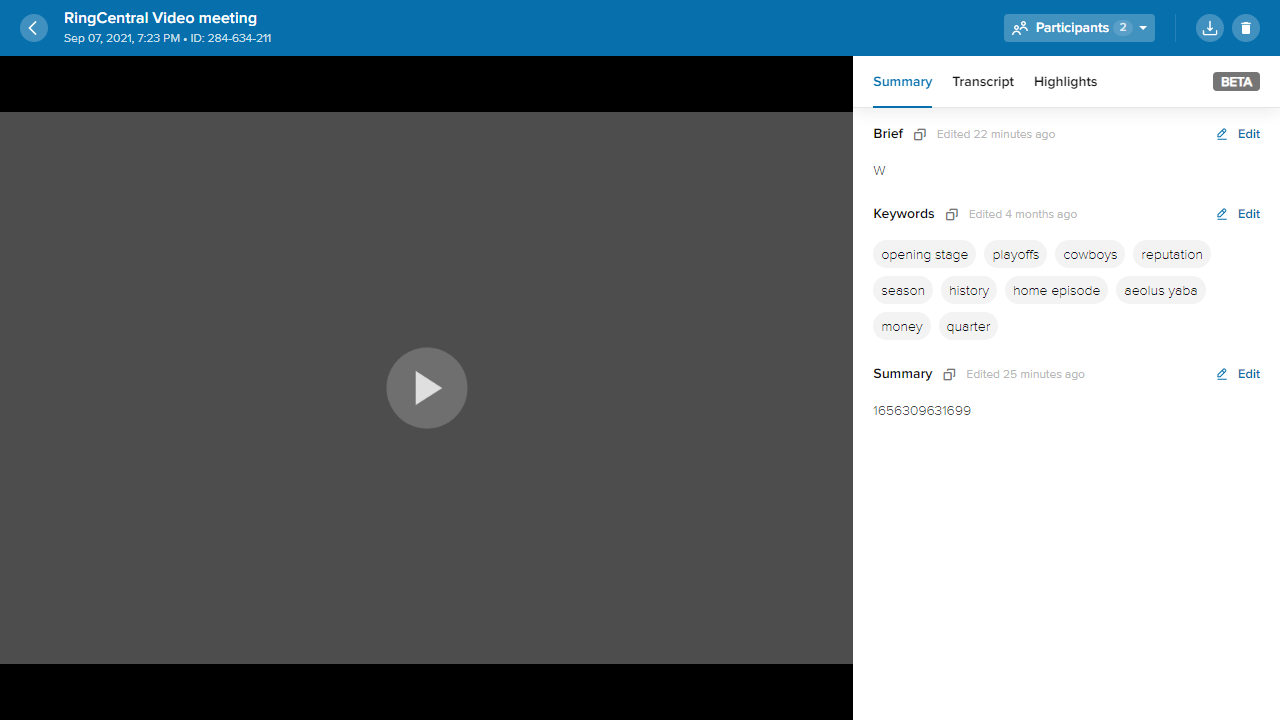
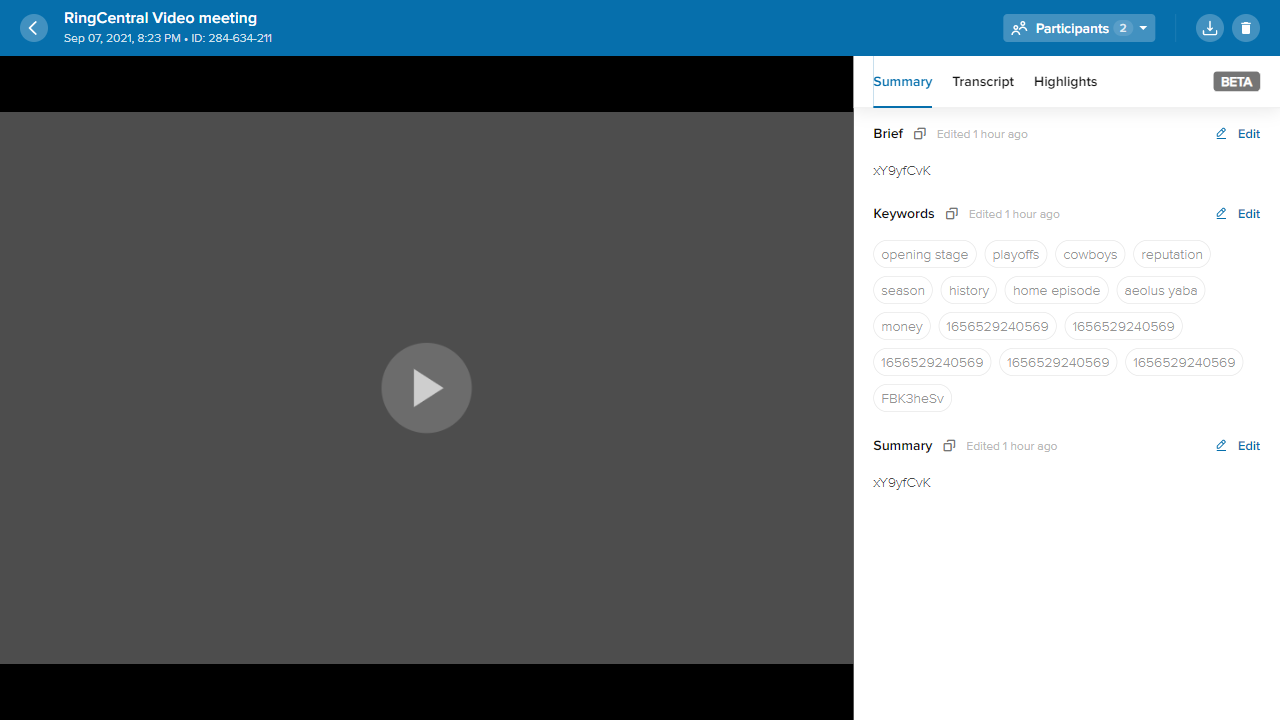
post-meeting-page-full-material.js ready for testing

diff --git a/utils/text-for-input.js b/utils/text-for-input.js
@@ -1,6 +1,8 @@
+import randomstring from "randomstring";
 
 export default {
   longSummaryText10001: "When writing a summary, remember that it should be in the form of a paragraph. A summary begins with an introductory sentence that states the text's title, author and main point of the text as you see it. A summary is written in your own words. A summary contains only the ideas of the original text.When writing a summary, remember that it should be in the form of a paragraph. A summary begins with an introductory sentence that states the text's title, author and main point of the text as you see it. A summary is written in your own words. A summary contains only the ideas of the original text.When writing a summary, remember that it should be in the form of a paragraph. A summary begins with an introductory sentence that states the text's title, author and main point of the text as you see it. A summary is written in your own words. A summary contains only the ideas of the original text.When writing a summary, remember that it should be in the form of a paragraph. A summary begins with an introductory sentence that states the text's title, author and main point of the text as you see it. A summary is written in your own words. A summary contains only the ideas of the original text.When writing a summary, remember that it should be in the form of a paragraph. A summary begins with an introductory sentence that states the text's title, author and main point of the text as you see it. A summary is written in your own words. A summary contains only the ideas of the original text.When writing a summary, remember that it should be in the form of a paragraph. A summary begins with an introductory sentence that states the text's title, author and main point of the text as you see it. A summary is written in your own words. A summary contains only the ideas of the original text.When writing a summary, remember that it should be in the form of a paragraph. A summary begins with an introductory sentence that states the text's title, author and main point of the text as you see it. A summary is written in your own words. A summary contains only the ideas of the original text.When writing a summary, remember that it should be in the form of a paragraph. A summary begins with an introductory sentence that states the text's title, author and main point of the text as you see it. A summary is written in your own words. A summary contains only the ideas of the original text.When writing a summary, remember that it should be in the form of a paragraph. A summary begins with an introductory sentence that states the text's title, author and main point of the text as you see it. A summary is written in your own words. A summary contains only the ideas of the original text.When writing a summary, remember that it should be in the form of a paragraph. A summary begins with an introductory sentence that states the text's title, author and main point of the text as you see it. A summary is written in your own words. A summary contains only the ideas of the original text.When writing a summary, remember that it should be in the form of a paragraph. A summary begins with an introductory sentence that states the text's title, author and main point of the text as you see it. A summary is written in your own words. A summary contains only the ideas of the original text.When writing a summary, remember that it should be in the form of a paragraph. A summary begins with an introductory sentence that states the text's title, author and main point of the text as you see it. A summary is written in your own words. A summary contains only the ideas of the original text.When writing a summary, remember that it should be in the form of a paragraph. A summary begins with an introductory sentence that states the text's title, author and main point of the text as you see it. A summary is written in your own words. A summary contains only the ideas of the original text.When writing a summary, remember that it should be in the form of a paragraph. A summary begins with an introductory sentence that states the text's title, author and main point of the text as you see it. A summary is written in your own words. A summary contains only the ideas of the original text.When writing a summary, remember that it should be in the form of a paragraph. A summary begins with an introductory sentence that states the text's title, author and main point of the text as you see it. A summary is written in your own words. A summary contains only the ideas of the original text.When writing a summary, remember that it should be in the form of a paragraph. A summary begins with an introductory sentence that states the text's title, author and main point of the text as you see it. A summary is written in your own words. A summary contains only the ideas of the original text.When writing a summary, remember that it should be in the form of a paragraph. A summary begins with an introductory sentence that states the text's title, author and main point of the text as you see it. A summary is written in your own words. A summary contains only the ideas of the original text.When writing a summary, remember that it should be in the form of a paragraph. A summary begins with an introductory sentence that states the text's title, author and main point of the text as you see it. A summary is written in your own words. A summary contains only the ideas of the original text.When writing a summary, remember that it should be in the form of a paragraph. A summary begins with an introductory sentence that states the text's title, author and main point of the text as you see it. A summary is written in your own words. A summary contains only the ideas of the original text.When writing a summary, remember that it should be in the form of a paragraph. A summary begins with an introductory sentence that states the text's title, author and main point of the text as you see it. A summary is written in your own words. A summary contains only the ideas of the original text.When writing a summary, remember that it should be in the form of a paragraph. A summary begins with an introductory sentence that states the text's title, author and main point of the text as you see it. A summary is written in your own words. A summary contains only the ideas of the original text.When writing a summary, remember that it should be in the form of a paragraph. A summary begins with an introductory sentence that states the text's title, author and main point of the text as you see it. A summary is written in your own words. A summary contains only the ideas of the original text.When writing a summary, remember that it should be in the form of a paragraph. A summary begins with an introductory sentence that states the text's title, author and main point of the text as you see it. A summary is written in your own words. A summary contains only the ideas of the original text.When writing a summary, remember that it should be in the form of a paragraph. A summary begins with an introductory sentence that states the text's title, author and main point of the text as you see it. A summary is written in your own words. A summary contains only the ideas of the original text.When writing a summary, remember that it should be in the form of a paragraph. A summary begins with an introductory sentence that states the text's title, author and main point of the text as you see it. A summary is written in your own words. A summary contains only the ideas of the original text.When writing a summary, remember that it should be in the form of a paragraph. A summary begins with an introductory sentence that states the text's title, author and main point of the text as you see it. A summary is written in your own words. A summary contains only the ideas of the original text.When writing a summary, remember that it should be in the form of a paragraph. A summary begins with an introductory sentence that states the text's title, author and main point of the text as you see it. A summary is written in your own words. A summary contains only the ideas of the original text.When writing a summary, remember that it should be in the form of a paragraph. A summary begins with an introductory sentence that states the text's title, author and main point of the text as you see it. A summary is written in your own words. A summary contains only the ideas of the original text.When writing a summary, remember that it should be in the form of a paragraph. A summary begins with an introductory sentence that states the text's title, author and main point of the text as you see it. A summary is written in your own words. A summary contains only the ideas of the original text.When writing a summary, remember that it should be in the form of a paragraph. A summary begins with an introductory sentence that states the text's title, author and main point of the text as you see it. A summary is written in your own words. A summary contains only the ideas of the original text.When writing a summary, remember that it should be in the form of a paragraph. A summary begins with an introductory sentence that states the text's title, author and main point of the text as you see it. A summary is written in your own words. A summary contains only the ideas of the original text.When writing a summary, remember that it should be in the form of a paragraph. A summary begins with an introductory sentence that states the text's title, author and main point of the text as you see it. A summary is written in your own words. A summary contains only the ideas of the original text.When writing a summary, remember that it should be in the form of a paragraph. A summary begins with an introductory sentence that states the text's title, author and main point of the text as you see it. A summary is written in your own words. A summary contains only the ideas of the original text.When writing a summary, remember that it should be in the form of a paragraph. A summary begins with.",
   briefSummaryText201: "When writing a summary, remember that it should be in the form of a paragraph. A summary begins with an introductory sentence that states the text's title, author and main point of the text as you see.",
-  newString: `${new Date().getTime()}`
+  // newString: `${new Date().getTime()}`,
+  newString: `${randomstring.generate(8)}`
 }

diff --git a/pageObject/pageElements/tabs.js b/pageObject/pageElements/tabs.js
@@ -17,9 +17,9 @@ export class TabPanel {
 
 const TAB_CONTAINER_SELECTOR = '.Tabs__item'
 
-class Tab {
-    constructor(lastLocator, containerSelector) {
-        this.modalContainer = lastLocator.locator(`${TAB_CONTAINER_SELECTOR}${containerSelector}`)
+class Tab {                                         //не является родительским классом для класса SummaryTab, это просто указатель на хэдэр
+    constructor(lastLocator, containerSelector) {   //поэтому селектор в классе SummaryTab не чейнится с селектором из класса Tab, потому что в
+        this.modalContainer = lastLocator.locator(`${TAB_CONTAINER_SELECTOR}${containerSelector}`) //DOM они расположены параллельно
     }
     async tabIsActive(){
         await this.modalContainer.waitFor({state: "visible"})
@@ -32,12 +32,16 @@ const BRIEF_SUMMARY_SECTION_CONTAINER_SELECTOR = '.summaries-container  >> nth=0
 const KEYWORDS_SECTION_CONTAINER_SELECTOR = '.summaries-container >> nth=1'
 const SUMMARY_SECTION_CONTAINER_SELECTOR = '.summaries-container >> nth=2'
 
+const NO_MATERIAL_AVAILABLE_IMAGE_SELECTOR = '.informative-img'
+
 class SummaryTab extends Tab {
     constructor(lastLocator, containerSelector) {
         super(lastLocator, containerSelector);
         this.briefSummarySection = new SummaryTabSection(lastLocator, BRIEF_SUMMARY_SECTION_CONTAINER_SELECTOR)
         this.keywordSection = new SummaryTabSection(lastLocator, KEYWORDS_SECTION_CONTAINER_SELECTOR)
         this.summarySection = new SummaryTabSection(lastLocator, SUMMARY_SECTION_CONTAINER_SELECTOR)
+
+        // this.moMaterialSection = new
     }
 }
 
@@ -58,8 +62,8 @@ const COPY_BUTTON_SELECTOR = 'span.summary-header__copy-icon.icon-copy'
 const EDITED_SIGN_SELECTOR = '.edit-sign'
 
 class SummaryTabSection {
-    constructor(lastLocator, containerSelector) {
-        this.modalSectionLocator = lastLocator.locator(containerSelector)
+    constructor(lastLocator, sectionSelector) {
+        this.modalSectionLocator = lastLocator.locator(sectionSelector)
         this.editedSign = new EditedSign(this.modalSectionLocator, EDITED_SIGN_SELECTOR);
         this.editButton = new EditButton(this.modalSectionLocator, EDIT_BUTTON_SELECTOR);
         this.copyButton = new CopyButton(this.modalSectionLocator, COPY_BUTTON_SELECTOR);
@@ -89,6 +93,11 @@ class SummaryTabSection {
 
 }
 
+class NoMaterialSummaryTabSection {
+    constructor(lastLocator, sectionSelector) {
+
+    }
+}
 class CopyButton {
     constructor(lastLocator, buttonLocator) {
         this.copyButton = lastLocator.locator(buttonLocator);

diff --git a/tests/specs/post-meeting-page-full-material.js b/tests/specs/post-meeting-page-full-material.js
@@ -153,7 +153,7 @@ test.describe('Demo server', async () => {
         await page.screenshot({ path: "RCV-26956.png" });
     })
 
-    test.only('Edit keywords functionality : RCV-26957 : FM', async () => {                      //TBD
+    test('Edit keywords functionality : RCV-26957 : FM', async () => {                      //TBD
         const initialLastKeywordText = await postMeetingPage.tabs.summaryTab.keywordSection.getLastKeywordText()
         const countOfKeywords = await postMeetingPage.tabs.summaryTab.keywordSection.getCountOfKeywords()
         //Step#1
@@ -162,31 +162,30 @@ test.describe('Demo server', async () => {
         await expect(postMeetingPage.modal.doneButton).toBeDisabled()
         //Step#2
         await postMeetingPage.modal.deleteKeywordBoxes(1)
-        await postMeetingPage.modal.keywordInput.toHaveAttribute('placeholder', 'Add new keyword...')
+        await expect(postMeetingPage.modal.keywordInput).toHaveAttribute('placeholder', 'Add new keyword...')
         await expect(postMeetingPage.modal.doneButton).toBeEnabled()
         //Step#3
         await postMeetingPage.modal.cancelButton.click()
         let currentLastKeywordText = await postMeetingPage.tabs.summaryTab.keywordSection.getLastKeywordText()
 
-        console.log(currentLastKeywordText);
         await expect.soft(initialLastKeywordText).toEqual(currentLastKeywordText)
         //Step#4
         await postMeetingPage.tabs.summaryTab.keywordSection.editButton.openModal()
         //Step#5
+
         await postMeetingPage.modal.addKeywordBoxes(textForInput.newString)
         await expect(postMeetingPage.modal.letterCounter).toHaveText(`15 / 15`)
         await expect(postMeetingPage.modal.doneButton).toBeEnabled()
         //Step#6
         await page.mouse.click(0,0)
         //Step#7
-        let newLastKeywordText = await postMeetingPage.modal.keywordBox.last().textContent()
+        let newLastKeywordText = await postMeetingPage.modal.keywordBoxInput.inputValue()
         await postMeetingPage.modal.doneButton.click()
         await postMeetingPage.modal.modalLocator.waitFor({state:'hidden'})
         currentLastKeywordText = await postMeetingPage.tabs.summaryTab.keywordSection.getLastKeywordText()
         await expect.soft(currentLastKeywordText).toEqual(newLastKeywordText)
         await page.screenshot({ path: "RCV-26957.png" });
-
-    })             //TBD
+    })
 })
 
 

diff --git a/tests/specs/post-meeting-page-NO-material.js b/tests/specs/post-meeting-page-NO-material.js
@@ -1,11 +1,13 @@
 import {chromium, expect, test, request} from "@playwright/test";
-import {PostMeetingPage} from "pageObject/PostMeeting.page.js";
+import {PostMeetingPage} from "../../pageObject/PostMeeting.page.js";
 
 import URL from "../../utils/recording-URL.js";
 import textExample from "../../utils/text-for-input.js";
 import textForInput from "../../utils/text-for-input.js";
 
-test.describe.configure({ mode: 'serial' })('Demo server', async () => {
+//***************************************NO MATERIAL******************************//
+
+test.describe('Demo server', async () => {
 
     let page;
     let postMeetingPage;
@@ -13,7 +15,7 @@ test.describe.configure({ mode: 'serial' })('Demo server', async () => {
     test.beforeAll(async ({browser}) => {
         const context = await browser.newContext()
         page = await context.newPage()
-        await page.goto(URL.fullMaterialRecordingDemo)
+        await page.goto(URL.noMaterialRecordingDemo)
         //need to fix. maybe https://playwright.dev/docs/auth#session-storage
         await page.locator('button', {hasText: "Continue"}).click()
         await page.locator("button.btn.btn-primary").click()
@@ -25,12 +27,13 @@ test.describe.configure({ mode: 'serial' })('Demo server', async () => {
     })
 
     test("Post meeting page UI : RCV-25017 : NoM", async () => {
-        await postMeetingPage.header.waitFor({state: "visible"})
-        await postMeetingPage.player.waitFor({state: "visible"})
-        await postMeetingPage.tabs.waitFor({state: "visible"})
+        await postMeetingPage.header.headerlocator.waitFor({state: "visible"})
+        await postMeetingPage.player.playerLocator.waitFor({state: "visible"})
+        await postMeetingPage.tabs.tabPanelLocator.waitFor({state: "visible"})
+        // await postMeetingPage.
         //Add "about" or "material status" locator
         await page.screenshot({ path: "No material post-meeting-page layout.png" });
-    })          //TBD
+    })
 
     test("Summary tab UI : RCV-26737 : NoM", async () => {
         await postMeetingPage.summaryTab.isActiveTab()

diff --git a/pageObject/pageElements/modal.js b/pageObject/pageElements/modal.js
@@ -8,6 +8,7 @@ const TEXT_INPUT_SELECTOR = 'textarea'
 const LETTER_COUNTER_SELECTOR = '.max-length-of-entity >> span'
 const KEYWORDS_INPUT_SELECTOR = '.future-keyword'
 const EXISTING_KEYWORD_SELECTOR = '.edit-brief-keywords-modal__keyword'
+const EXISTING_KEYWORD_INPUT_SELECTOR = '.edit-brief-keywords-modal__keyword >> input'
 
 export class Modal {
     constructor(lastLocator, modalSelector) {
@@ -20,6 +21,7 @@ export class Modal {
         this.viewportHeight = lastLocator.viewportSize().height
 
         this.keywordBox = this.modalLocator.locator(EXISTING_KEYWORD_SELECTOR)
+        this.keywordBoxInput = this.modalLocator.locator(EXISTING_KEYWORD_INPUT_SELECTOR).last()
         this.keywordInput = this.modalLocator.locator(KEYWORDS_INPUT_SELECTOR).last()
     }
 
@@ -70,6 +72,7 @@ export class Modal {
         }
     }
     async addKeywordBoxes(textForKeywords){
+        if(await this.keywordInput.isDisabled()) await this.deleteKeywordBoxes(1)
         while(await this.keywordInput.isEditable()){
             await this.keywordInput.fill(textForKeywords)
             await this.keywordInput.press('Enter')

diff --git a/playwright.config.js b/playwright.config.js
@@ -4,12 +4,13 @@ import { devices } from '@playwright/test';
 const config = {
   // testDir: './tests/specs',
   testMatch: 'post-meeting-page-full-material.js',
+  // testMatch: 'post-meeting-page-NO-material.js',
   // testMatch: 'test.example.js',
-  timeout: 120 * 1000,
+  timeout: 240 * 1000,
   expect: {
     timeout: 5000
   },
-  globalSetup: "./utils/global-setup",
+  // globalSetup: "./utils/global-setup",
   fullyParallel: true,
   forbidOnly: !!process.env.CI,
   retries: process.env.CI ? 2 : 0,

diff --git a/pageObject/Login.page.js b/pageObject/Login.page.js
@@ -10,7 +10,7 @@ export class LoginPage {
 
 //it could be changed by API request, POST credential directly to server without UI clicking
     async login() {
-        await this.page.goto(loginData.urlDemoServer)
+        await this.page.goto(loginData.urlDemoServer, {timeout: 120000})
         await this.page.locator("#signin-btn").click()
         await this.page.locator("input#credential").fill(loginData.username)
         await this.page.locator("input#credential").press('Enter');

diff --git a/tests/test.example.js b/tests/test.example.js
@@ -1,5 +1,5 @@
 import {expect, test} from "@playwright/test";
-import {TestClass} from "../pageObject/test/test.page.js";
+import {TestClass} from "../utils/test/test.page.js";
 // import {MarketplacePageClass} from "../pageObject/test/test.marketplace.page.js";
 
 

diff --git a/utils/login-data.js b/utils/login-data.js
@@ -1,6 +1,7 @@
 export default {
 
   "urlDemoServer": "https://demo-ai-wi.lab.nordigy.ru/welcome",
+  "urlDevServer": "https://dev-ai-wi.lab.nordigy.ru/welcome",
   "username": "valkeare@inbox.ru",
   "password": "Tst123123"
 
